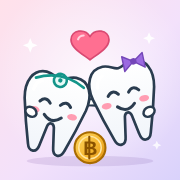
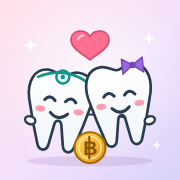
ไอคอน: ฟันบิลกับ Gym ชิดกันขึ้น แขนไม่บังหน้า
Claude-Session: https://claude.ai/code/session_01NQa7yhE4dEm6icF8MLCgv2

Changed region(s): [[0.1111, 0.2778, 0.8889, 0.8889]]

diff --git a/index.html b/index.html
@@ -5,13 +5,13 @@
 <meta name="viewport" content="width=device-width, initial-scale=1, viewport-fit=cover">
 <meta name="theme-color" content="#14958A">
 <meta name="robots" content="noindex, nofollow">
-<link rel="icon" href="icon.svg?v=3" type="image/svg+xml">
-<link rel="apple-touch-icon" href="icon-180.png?v=3">
+<link rel="icon" href="icon.svg?v=4" type="image/svg+xml">
+<link rel="apple-touch-icon" href="icon-180.png?v=4">
 <meta name="apple-mobile-web-app-capable" content="yes">
 <meta name="mobile-web-app-capable" content="yes">
 <meta name="apple-mobile-web-app-title" content="ฟันน้อย">
 <meta name="apple-mobile-web-app-status-bar-style" content="default">
-<link rel="manifest" href="manifest.webmanifest?v=3">
+<link rel="manifest" href="manifest.webmanifest?v=4">
 <title>สมุดบัญชีฟันน้อย</title>
 <link rel="preconnect" href="https://fonts.googleapis.com">
 <link rel="preconnect" href="https://fonts.gstatic.com" crossorigin>
